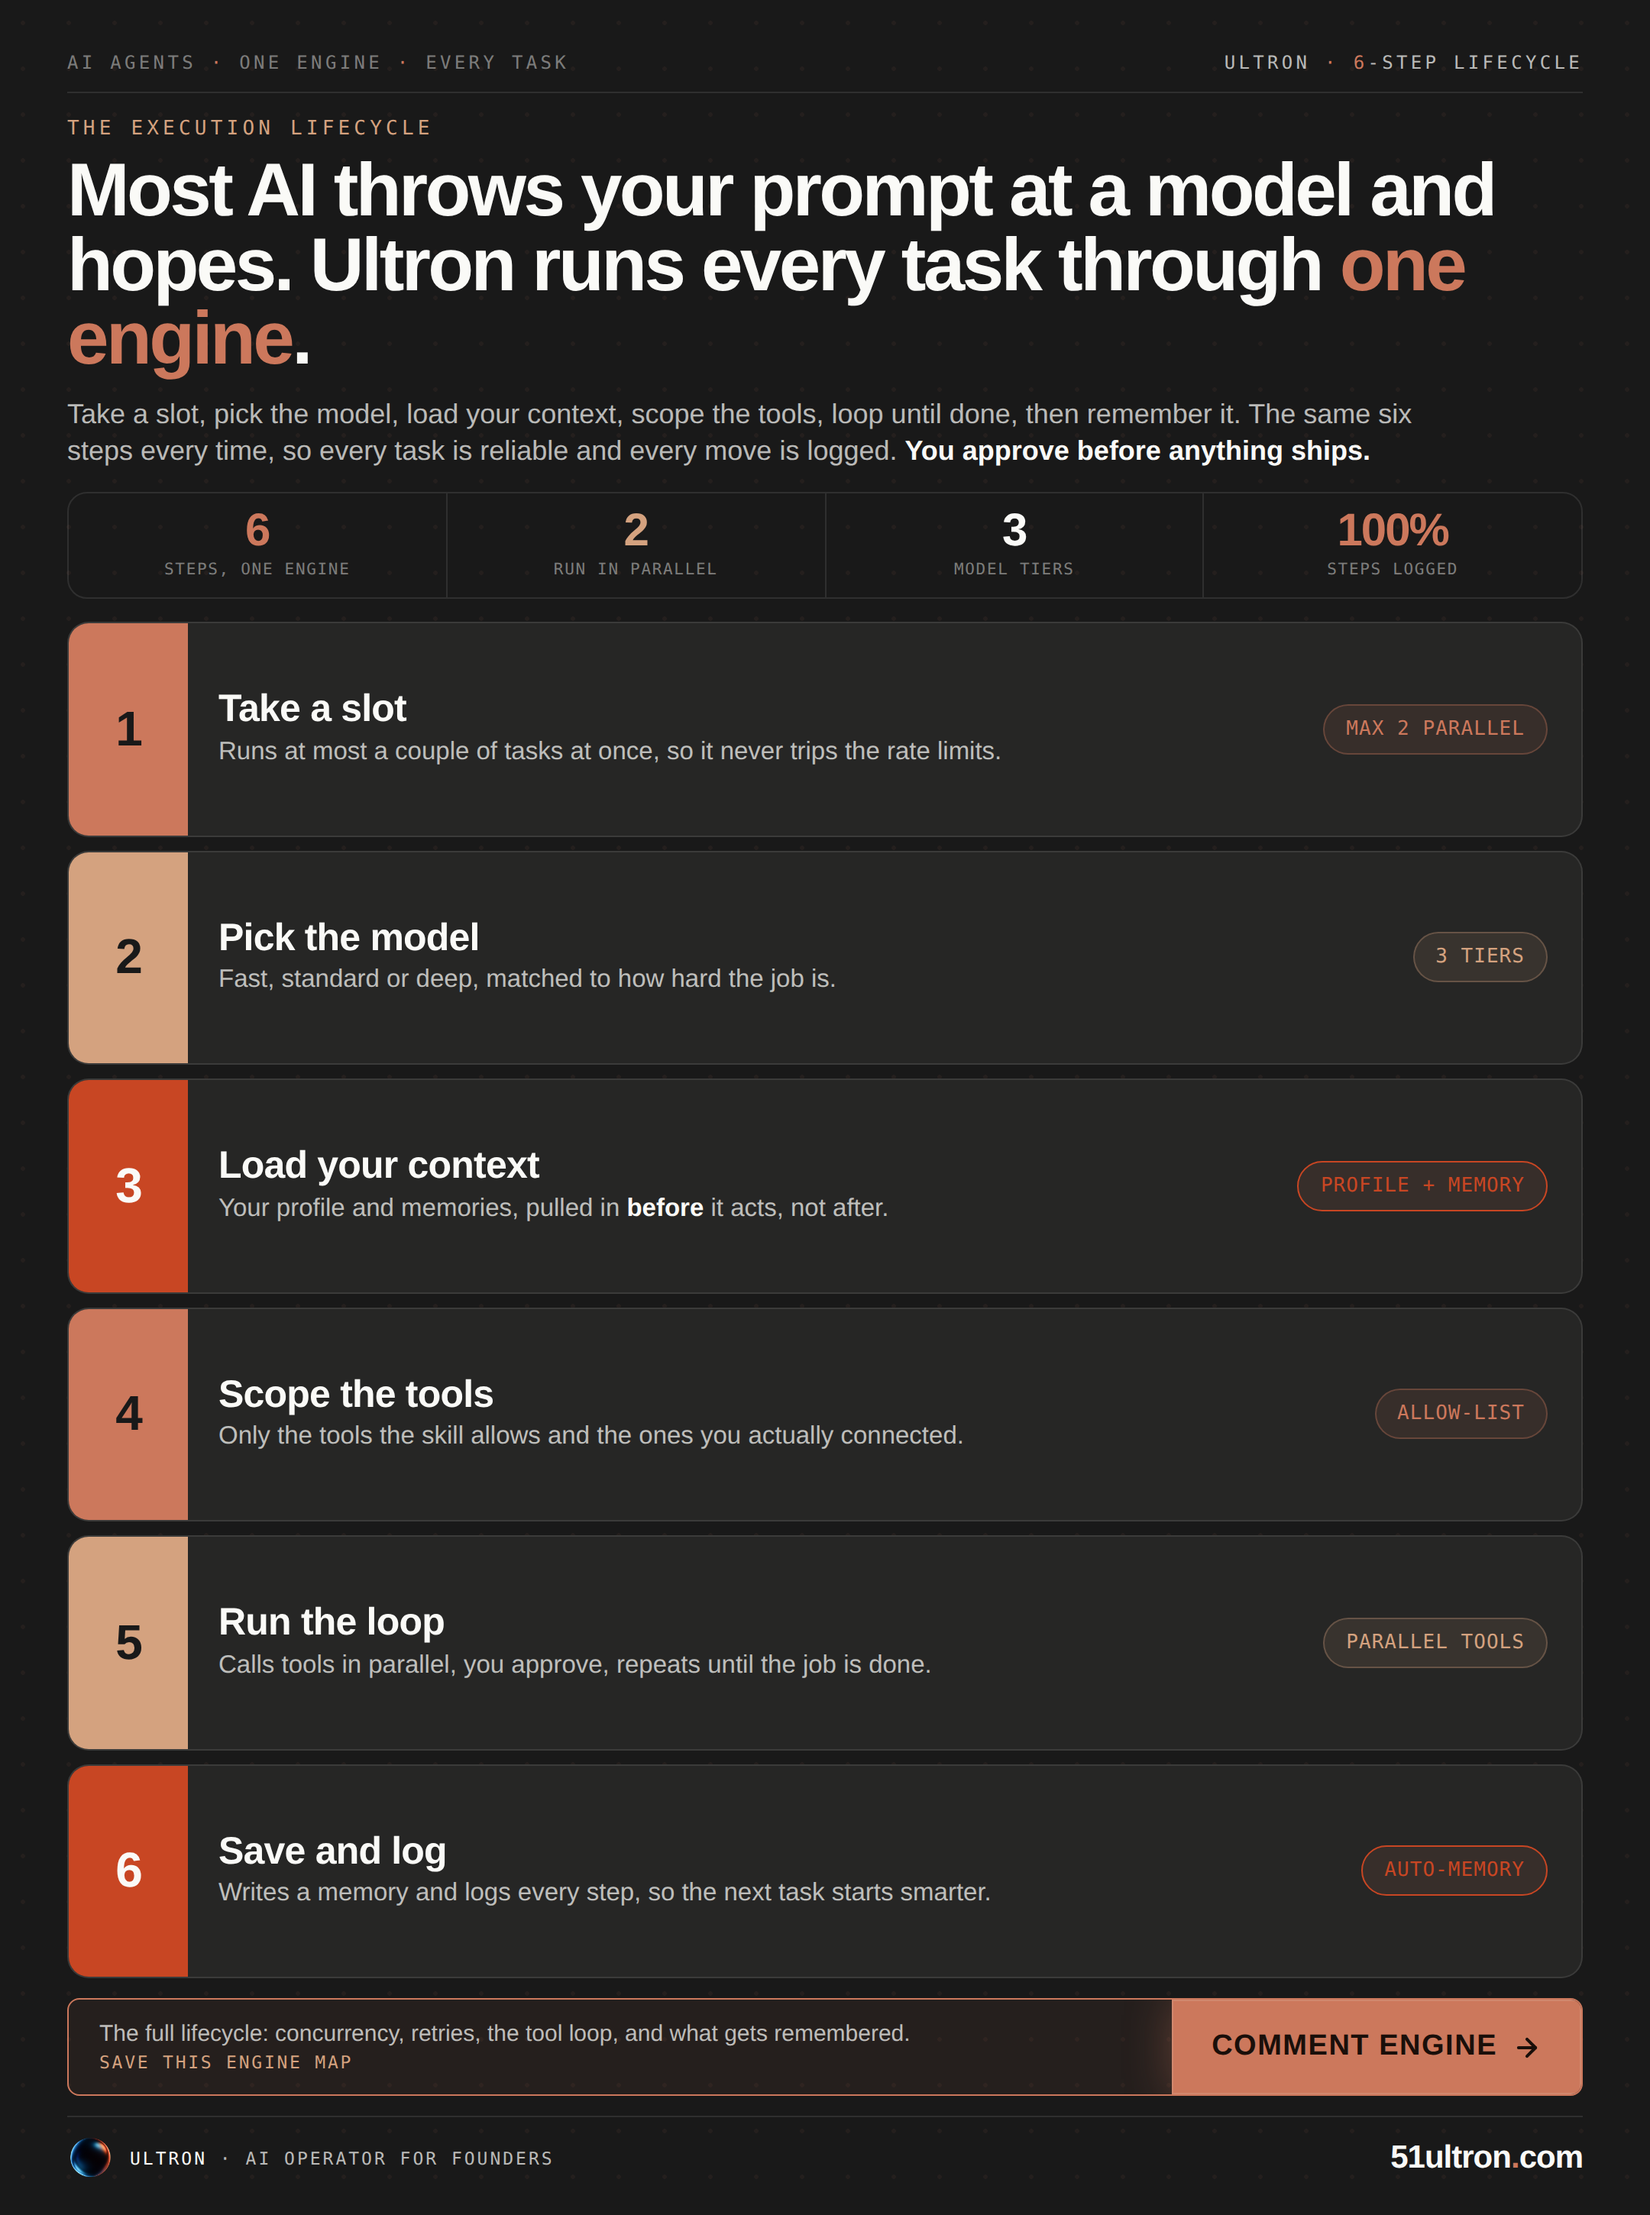
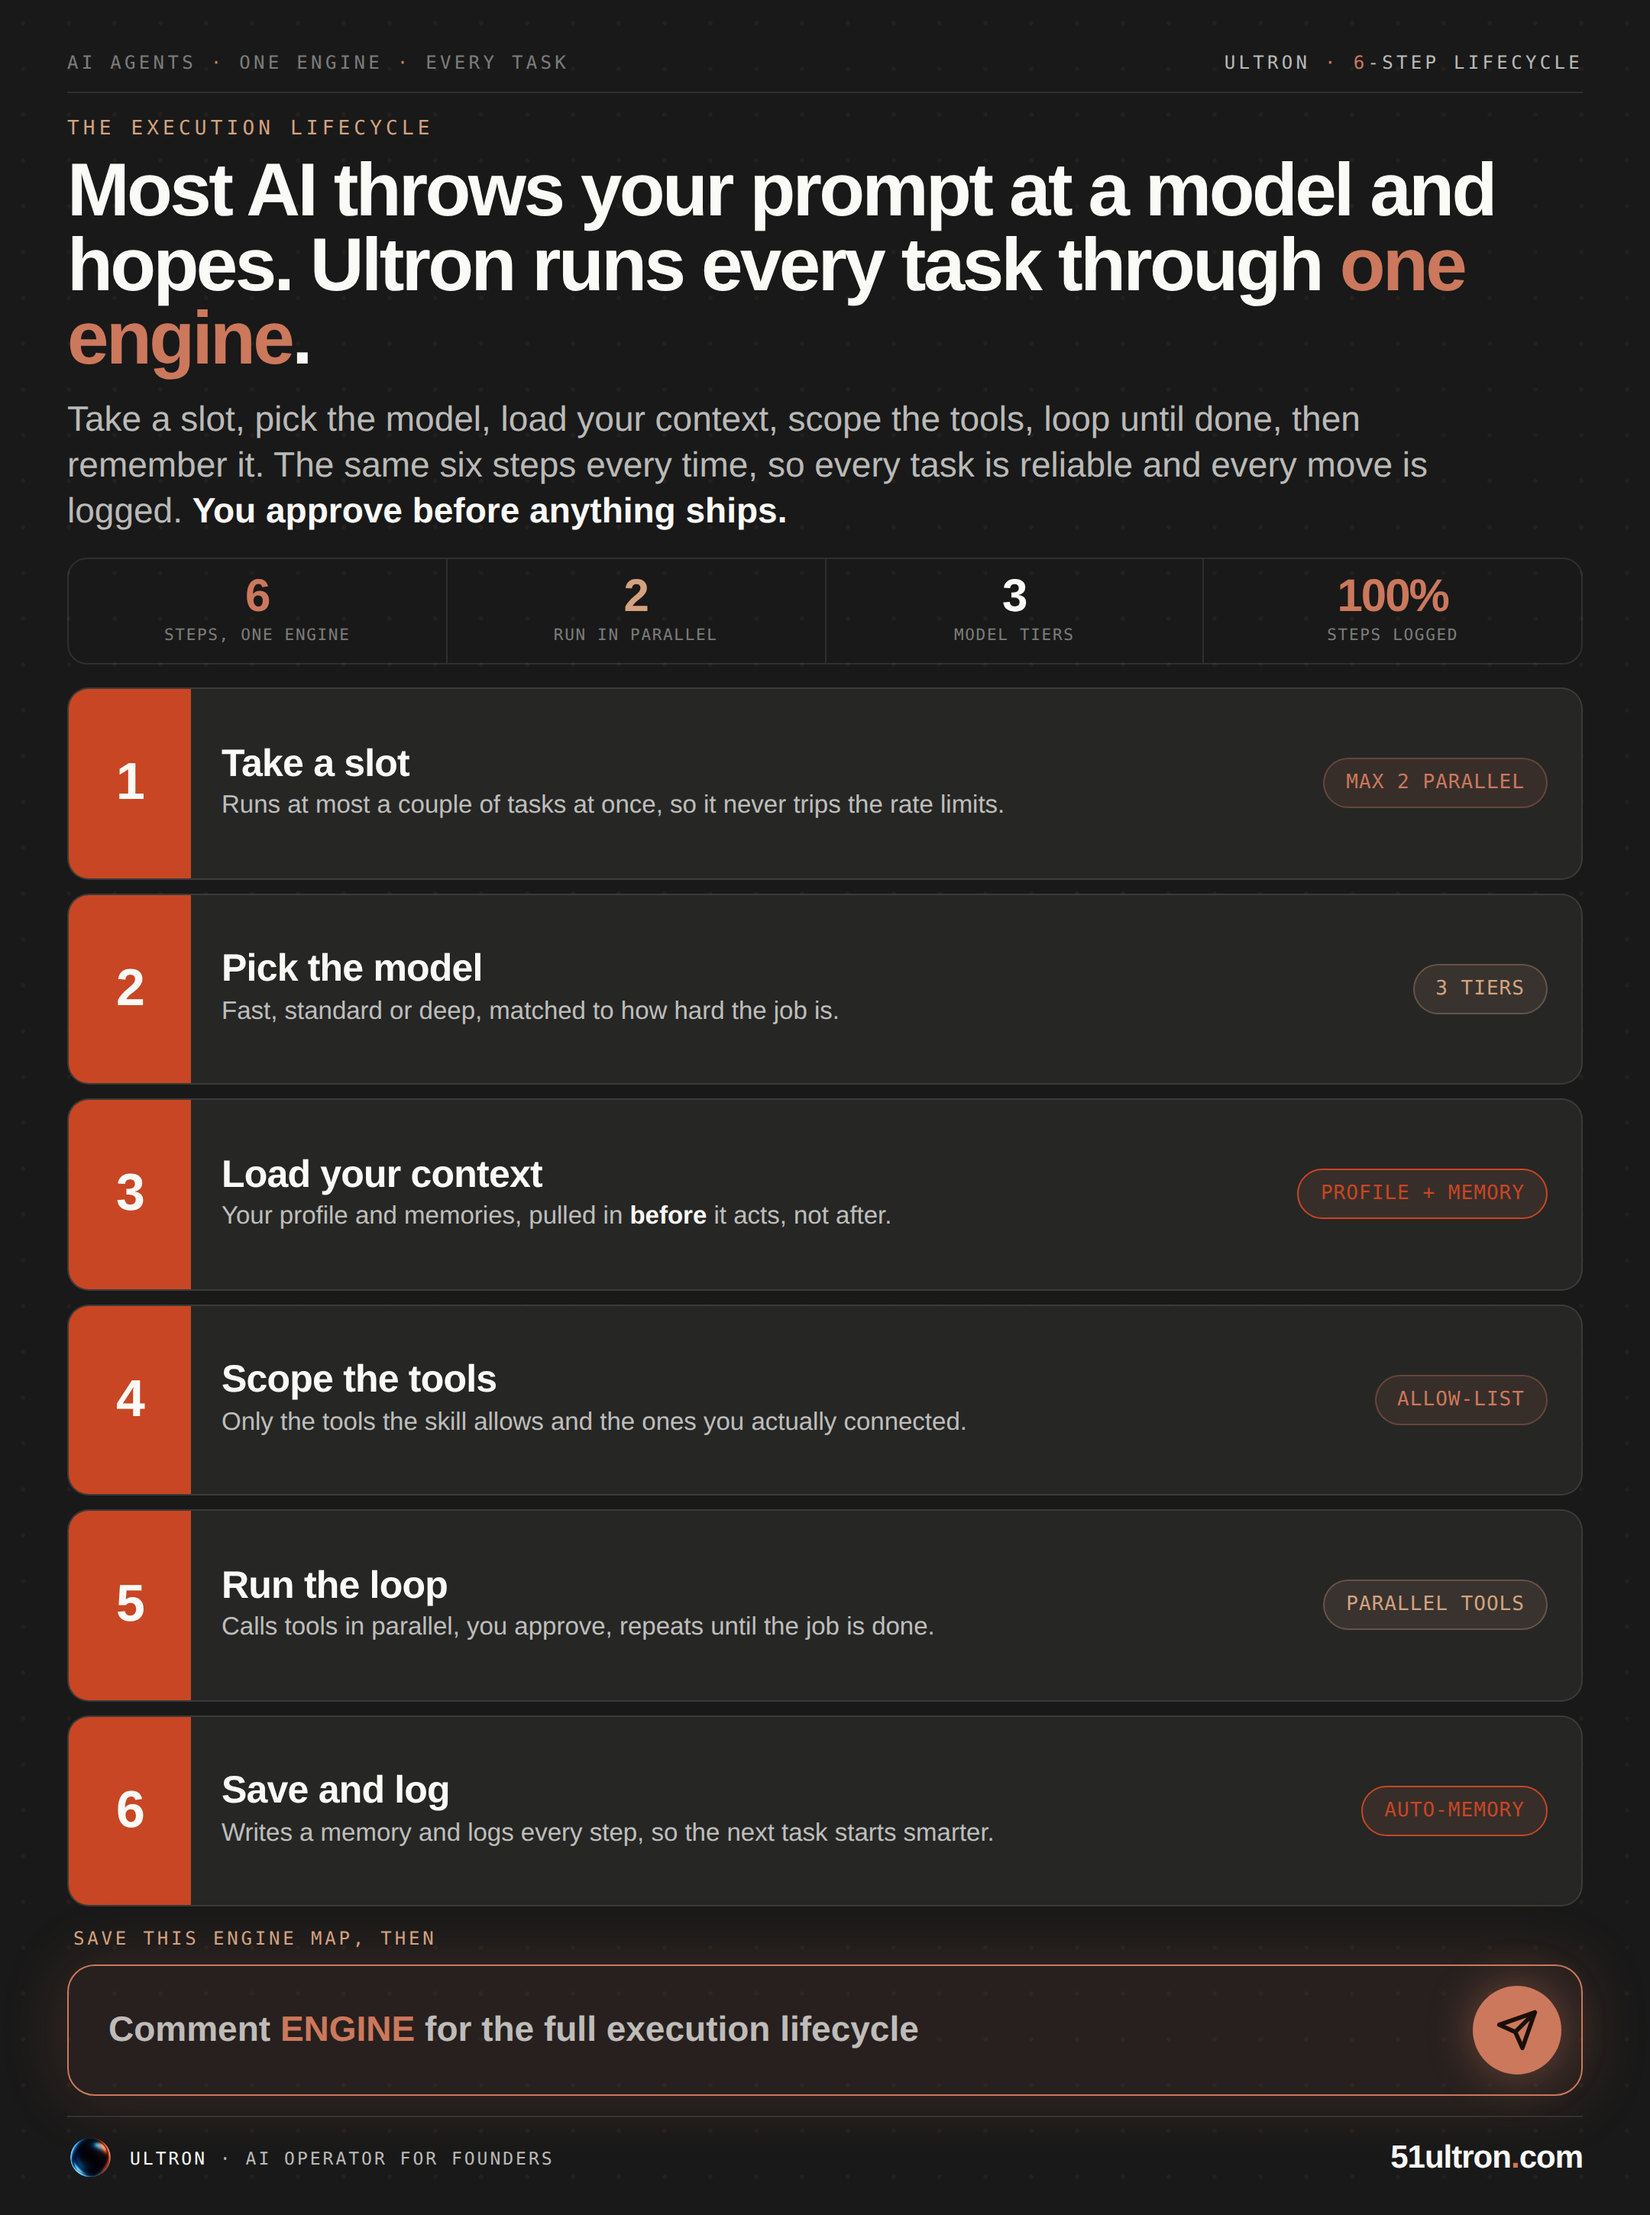
docs-13 fixes: vivid badges, chat-bar CTA with send arrow, larger sub-hook
Per operator: numbered badges were too washed-brick (now vivid book-d #C84623 + ivory),
restored the chat-input-bar CTA with the paper-plane send button (vs the flat chip), and
bumped the sub-hook 18->23px so it reads. This chat-bar CTA + sub-hook sizing become the
LinkedIn standard going forward.

https://claude.ai/code/session_018fS7xMwDiJUxoNS3zo3BKw

diff --git a/content/docs-13-lifecycle-linkedin.html b/content/docs-13-lifecycle-linkedin.html
@@ -22,7 +22,7 @@ body{background:#0d0d0d;display:flex;justify-content:center;padding:24px 0;font-
 .hero{flex-shrink:0;margin-top:16px;}
 .eye{font-family:'DM Mono',monospace;font-size:13px;font-weight:500;letter-spacing:.2em;text-transform:uppercase;color:var(--kraft);}
 .hook{margin-top:9px;font-weight:900;font-size:49px;line-height:.99;letter-spacing:-1.8px;color:var(--ivory);}.hook em{color:var(--book);font-style:normal;}
-.sub{margin-top:12px;font-size:18px;font-weight:500;line-height:1.34;color:var(--ink70);max-width:900px;}.sub b{color:var(--ivory);font-weight:700;}
+.sub{margin-top:12px;font-size:23px;font-weight:500;line-height:1.32;color:var(--ink70);max-width:940px;}.sub b{color:var(--ivory);font-weight:700;}
 .stats{flex-shrink:0;margin-top:15px;display:flex;border:1px solid var(--rule);border-radius:13px;overflow:hidden;}
 .stat{flex:1;padding:12px 16px;text-align:center;}.stat+.stat{border-left:1px solid var(--rule);}
 .stat b{display:block;font-weight:900;font-size:30px;line-height:.85;letter-spacing:-1px;}
@@ -31,8 +31,8 @@ body{background:#0d0d0d;display:flex;justify-content:center;padding:24px 0;font-
 /* pipeline (dominant) */
 .pipe{flex:1;min-height:0;margin-top:15px;display:flex;flex-direction:column;gap:9px;}
 .stage{position:relative;flex:1;display:flex;align-items:center;gap:20px;border:1px solid var(--rule);border-radius:14px;background:var(--slate2);padding:0 22px 0 0;overflow:hidden;min-height:0;}
-.stage .snum{align-self:stretch;width:78px;flex-shrink:0;display:flex;align-items:center;justify-content:center;font-weight:900;font-size:32px;letter-spacing:-1px;color:var(--slate);background:var(--book);}
-.stage.k .snum{background:var(--kraft);}.stage.d .snum{background:var(--book-d);color:var(--ivory);}
+.stage .snum{align-self:stretch;width:80px;flex-shrink:0;display:flex;align-items:center;justify-content:center;font-weight:900;font-size:34px;letter-spacing:-1px;color:var(--ivory);background:var(--book-d);}
+.stage.k .snum{background:var(--book-d);}.stage.d .snum{background:var(--book-d);color:var(--ivory);}
 .stage .smid{flex:1;min-width:0;}
 .stage .st{font-size:25px;font-weight:800;color:var(--ivory);letter-spacing:-.4px;line-height:1.02;}
 .stage .sv{font-size:16.5px;font-weight:500;color:var(--ink70);margin-top:5px;line-height:1.2;}
@@ -41,12 +41,12 @@ body{background:#0d0d0d;display:flex;justify-content:center;padding:24px 0;font-
 .stage.k .schip{color:var(--kraft);background:rgba(212,162,127,.1);border-color:rgba(212,162,127,.3);}
 .stage.d .schip{color:var(--book-d);border-color:var(--book-d);}
 /* cta */
-.cta{flex-shrink:0;margin-top:13px;display:flex;align-items:stretch;border:1px solid var(--book);border-radius:8px;overflow:hidden;}
-.cta .t{flex:1;padding:14px 20px;display:flex;flex-direction:column;justify-content:center;gap:3px;background:rgba(204,120,92,.07);}
-.cta .t .s{font-size:15px;font-weight:500;color:var(--ink70);}.cta .t .s b{color:var(--ivory);font-weight:800;}
-.cta .t .save{font-family:'DM Mono',monospace;font-size:11.5px;letter-spacing:.12em;text-transform:uppercase;color:var(--kraft);}
-.cta .chip{flex-shrink:0;padding:0 26px;display:flex;align-items:center;gap:10px;background:var(--book);font-size:19px;font-weight:900;letter-spacing:.04em;text-transform:uppercase;color:#1a0f0a;box-shadow:inset 0 0 0 1px rgba(250,255,247,.12),0 0 30px rgba(204,120,92,.35);}
-.cta .chip svg{width:19px;height:19px;stroke:#1a0f0a;stroke-width:2.6;fill:none;stroke-linecap:round;stroke-linejoin:round;}
+.ctawrap{flex-shrink:0;margin-top:14px;}
+.savel{font-family:'DM Mono',monospace;font-size:12px;font-weight:500;letter-spacing:.16em;text-transform:uppercase;color:var(--kraft);margin-bottom:10px;padding-left:4px;}
+.cta{display:flex;align-items:center;gap:16px;border:1.5px solid var(--book);border-radius:18px;background:rgba(204,120,92,.08);padding:13px 13px 13px 26px;box-shadow:0 0 44px rgba(204,120,92,.2);}
+.cta .ph{flex:1;font-size:23px;font-weight:600;color:var(--ink70);line-height:1.2;}.cta .ph b{color:var(--book);font-weight:900;}
+.cta .send{width:58px;height:58px;border-radius:50%;background:var(--book);flex-shrink:0;display:flex;align-items:center;justify-content:center;box-shadow:0 0 30px rgba(204,120,92,.45);}
+.cta .send svg{width:28px;height:28px;stroke:#1a0f0a;stroke-width:2.4;fill:none;stroke-linecap:round;stroke-linejoin:round;}
 .ftr{flex-shrink:0;margin-top:13px;padding-top:12px;border-top:1px solid var(--rule);display:flex;align-items:center;justify-content:space-between;gap:16px;}
 .fl2{display:flex;align-items:center;gap:11px;min-width:0;}.flogo{width:30px;height:30px;border-radius:50%;object-fit:cover;flex-shrink:0;}
 .ftx{font-family:'DM Mono',monospace;font-size:11.5px;font-weight:400;letter-spacing:.13em;text-transform:uppercase;color:var(--ink70);white-space:nowrap;}.ftx b{color:var(--ivory);font-weight:500;}
@@ -75,9 +75,9 @@ body{background:#0d0d0d;display:flex;justify-content:center;padding:24px 0;font-
     <div class="stage k"><div class="snum">5</div><div class="smid"><div class="st">Run the loop</div><div class="sv">Calls tools in parallel, you approve, repeats until the job is done.</div></div><div class="schip">parallel tools</div></div>
     <div class="stage d"><div class="snum">6</div><div class="smid"><div class="st">Save and log</div><div class="sv">Writes a memory and logs every step, so the next task starts smarter.</div></div><div class="schip">auto-memory</div></div>
   </div>
-  <div class="cta">
-    <div class="t"><div class="s">The full lifecycle: concurrency, retries, the tool loop, and what gets remembered.</div><div class="save">Save this engine map</div></div>
-    <div class="chip">Comment ENGINE<svg viewBox="0 0 24 24"><path d="M5 12h14"/><path d="m12 5 7 7-7 7"/></svg></div>
+  <div class="ctawrap">
+    <div class="savel">Save this engine map, then</div>
+    <div class="cta"><span class="ph">Comment <b>ENGINE</b> for the full execution lifecycle</span><span class="send"><svg viewBox="0 0 24 24"><path d="M22 2 11 13M22 2l-7 20-4-9-9-4z"/></svg></span></div>
   </div>
   <div class="ftr"><div class="fl2"><img class="flogo" src="__LOGO_URI__" alt="Ultron"><span class="ftx"><b>ULTRON</b> &middot; AI OPERATOR FOR FOUNDERS</span></div><div class="furl">51ultron<em>.</em>com</div></div>
 </div>
